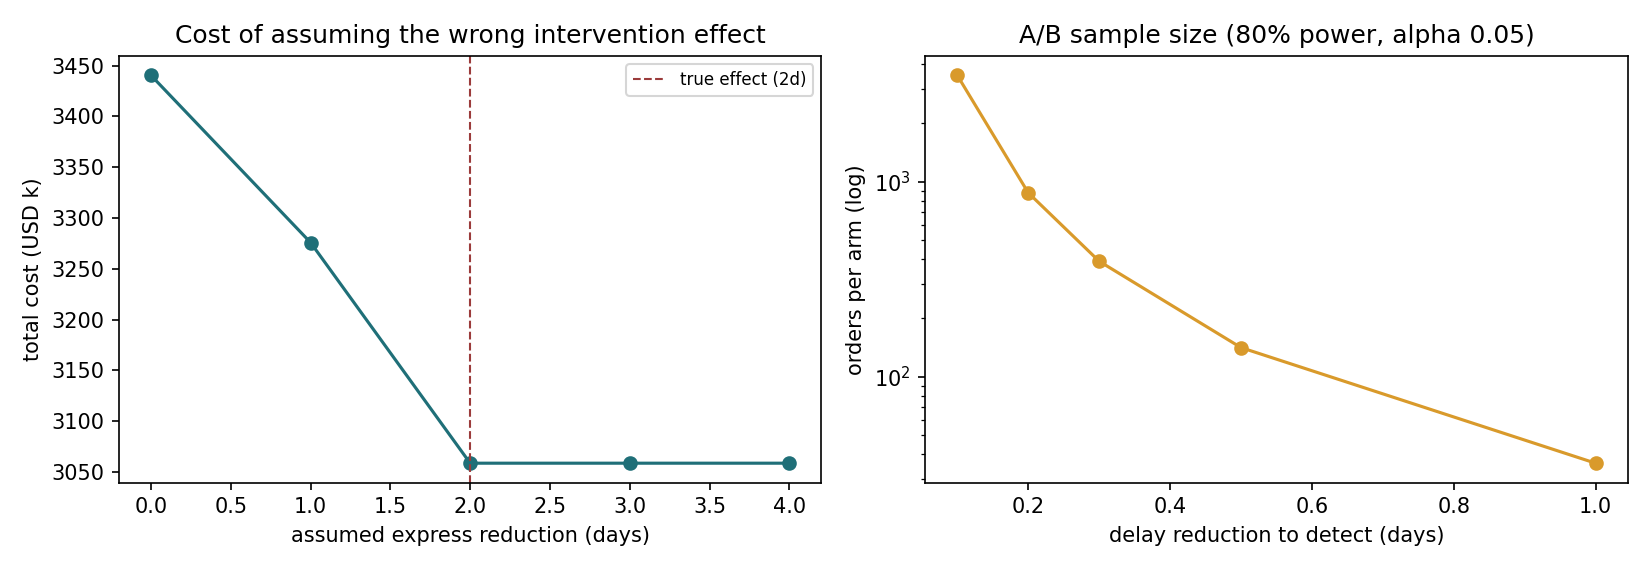
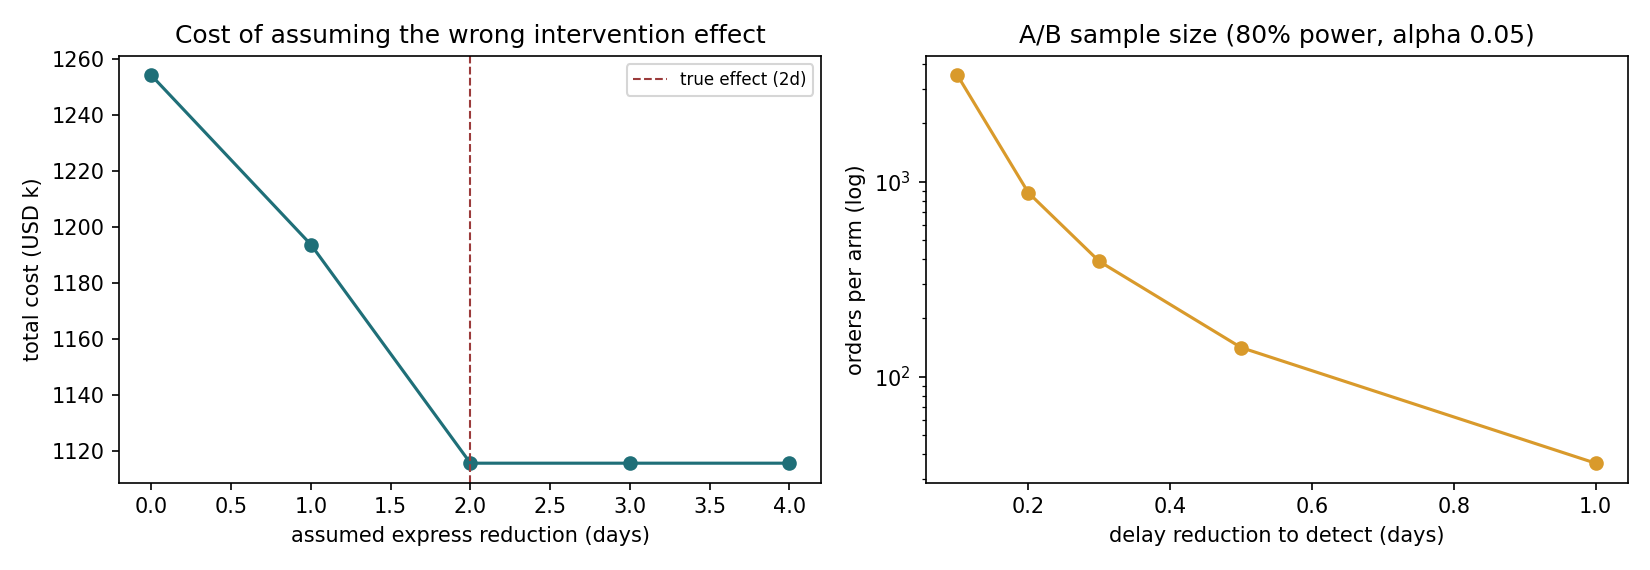
fix: 统一公开数据分析口径并修正服务输入

diff --git a/tests/test_api.py b/tests/test_api.py
@@ -94,3 +94,19 @@ class TestApi(unittest.TestCase):
 
 if __name__ == "__main__":
     unittest.main(verbosity=2)
+
+
+@unittest.skipUnless(FASTAPI_AVAILABLE, "API extra not installed")
+class TestAmountBasis(unittest.TestCase):
+    def test_default_total_is_discounted_net(self):
+        from api.main import Order, orders_to_frame
+
+        order = Order(
+            type="DEBIT", category_name="Fishing", department_name="Fan Shop",
+            market="Europe", shipping_mode="Same Day", customer_segment="Consumer",
+            order_date="2017-12-15", scheduled_days=0, quantity=2,
+            unit_price=120.0, discount_rate=0.05,
+        )
+        frame = orders_to_frame([order])
+        self.assertAlmostEqual(float(frame.loc[0, "Order Item Total"]), 2 * 120.0 * 0.95, places=2)
+        self.assertAlmostEqual(float(frame.loc[0, "Order Item Product Price"]), 120.0)

diff --git a/scripts/score_orders.py b/scripts/score_orders.py
@@ -44,6 +44,12 @@ def main() -> int:
 
     bundle = scoring.load_bundle(args.bundle)
     frame = pd.read_csv(args.input, encoding="latin1")
+    if "Order Id" in frame.columns and frame["Order Id"].duplicated().any():
+        n_dup = int(frame["Order Id"].duplicated().sum())
+        raise SystemExit(
+            f"input has {n_dup} duplicate Order Id rows; aggregate to one row per order first "
+            "(or pass an order-level file), otherwise intervention cost is charged per line"
+        )
     plan = scoring.score_frame(
         frame,
         bundle,

diff --git a/scripts/intervention_analysis.py b/scripts/intervention_analysis.py
@@ -106,7 +106,7 @@ def main() -> int:
     outdir.mkdir(parents=True, exist_ok=True)
     images.mkdir(parents=True, exist_ok=True)
 
-    df = pipeline.load_orders(str(pipeline.find_data(args.data)))
+    df = pipeline.to_order_level(pipeline.load_orders(str(pipeline.find_data(args.data))))
     from src import scoring
 
     bundle = scoring.load_bundle()
